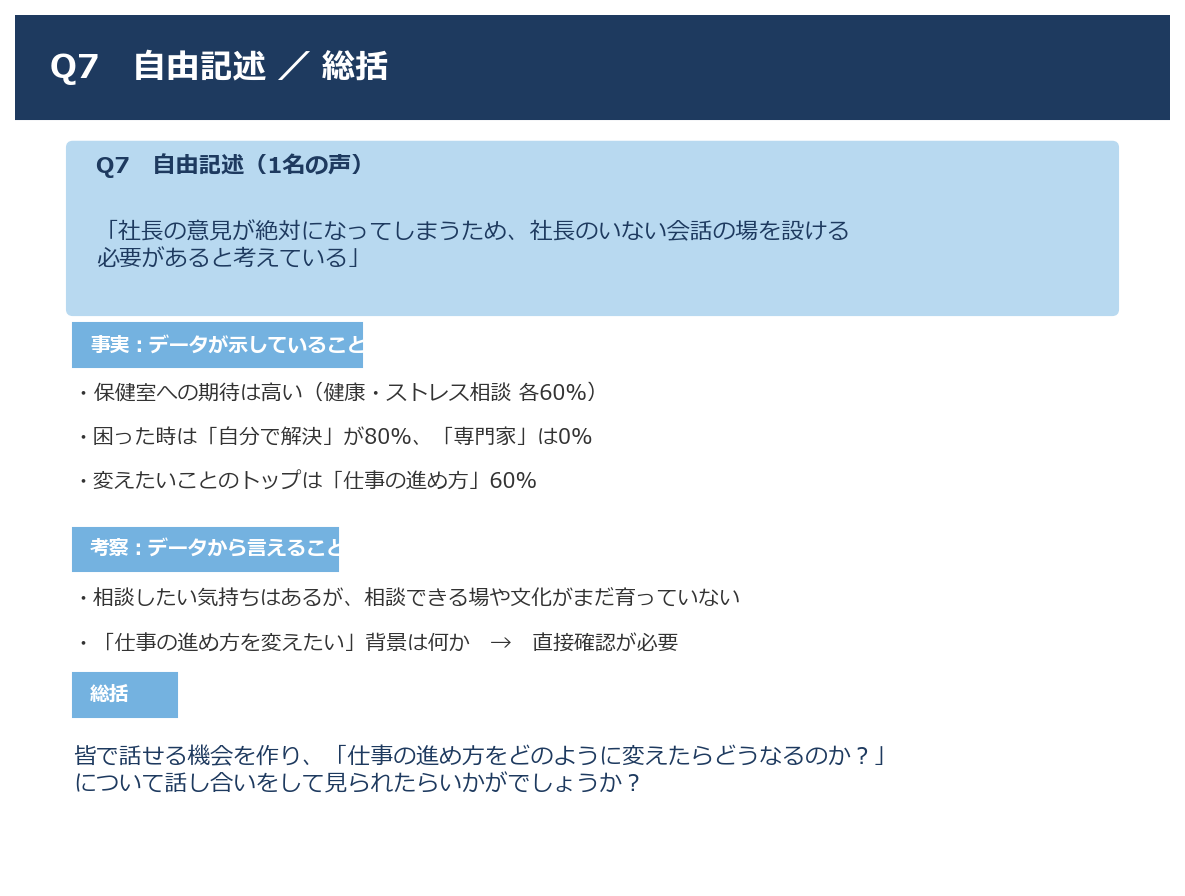
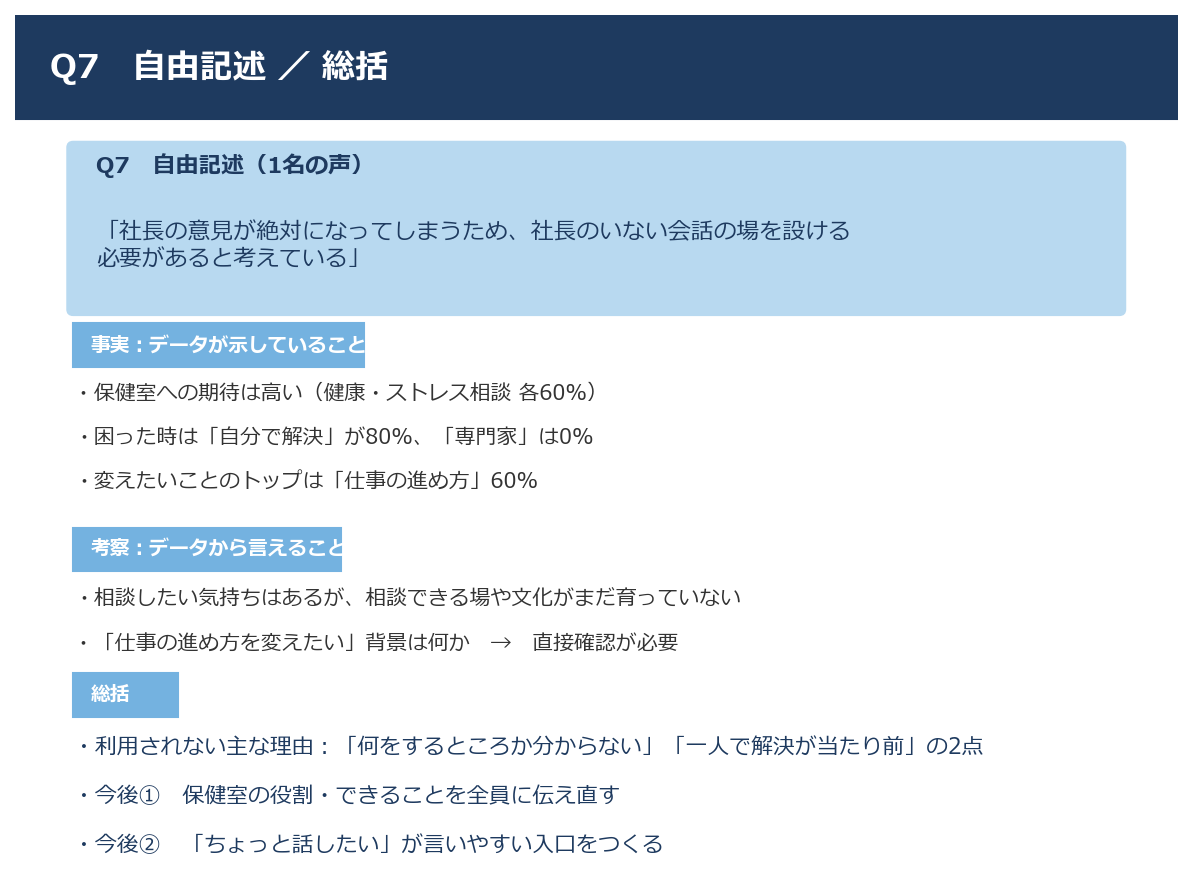
Auto-save 2026-06-13 18:16

diff --git a/create_cp_anketo_pptx.py b/create_cp_anketo_pptx.py
@@ -225,9 +225,12 @@ for i, item in enumerate([
 # 総括
 add_rect(s9, 0.5, 5.42, 0.8, 0.38, PRIMARY)
 add_text(s9, '総括', 0.6, 5.45, 0.7, 0.35, size=10, bold=True, color=WHITE)
-add_text(s9,
-    '皆で話せる機会を作り、「仕事の進め方をどのように変えたらどうなるのか？」\nについて話し合いをして見られたらいかがでしょうか？',
-    0.5, 5.85, 9, 0.9, size=11, color=SECONDARY)
+for i, item in enumerate([
+    '・利用されない主な理由：「何をするところか分からない」「一人で解決が当たり前」の2点',
+    '・今後①　保健室の役割・できることを全員に伝え直す',
+    '・今後②　「ちょっと話したい」が言いやすい入口をつくる',
+]):
+    add_text(s9, item, 0.5, 5.88 + i*0.45, 9.2, 0.42, size=11, color=SECONDARY)
 
 out = r'C:\Users\y-takahashi\MyBrain\20_Projects\企業のオンライン保健室\クラウドパワー株式会社\02_報告会記録\クラウドパワー様_アンケート結果_2026年6月.pptx'
 prs.save(out)
